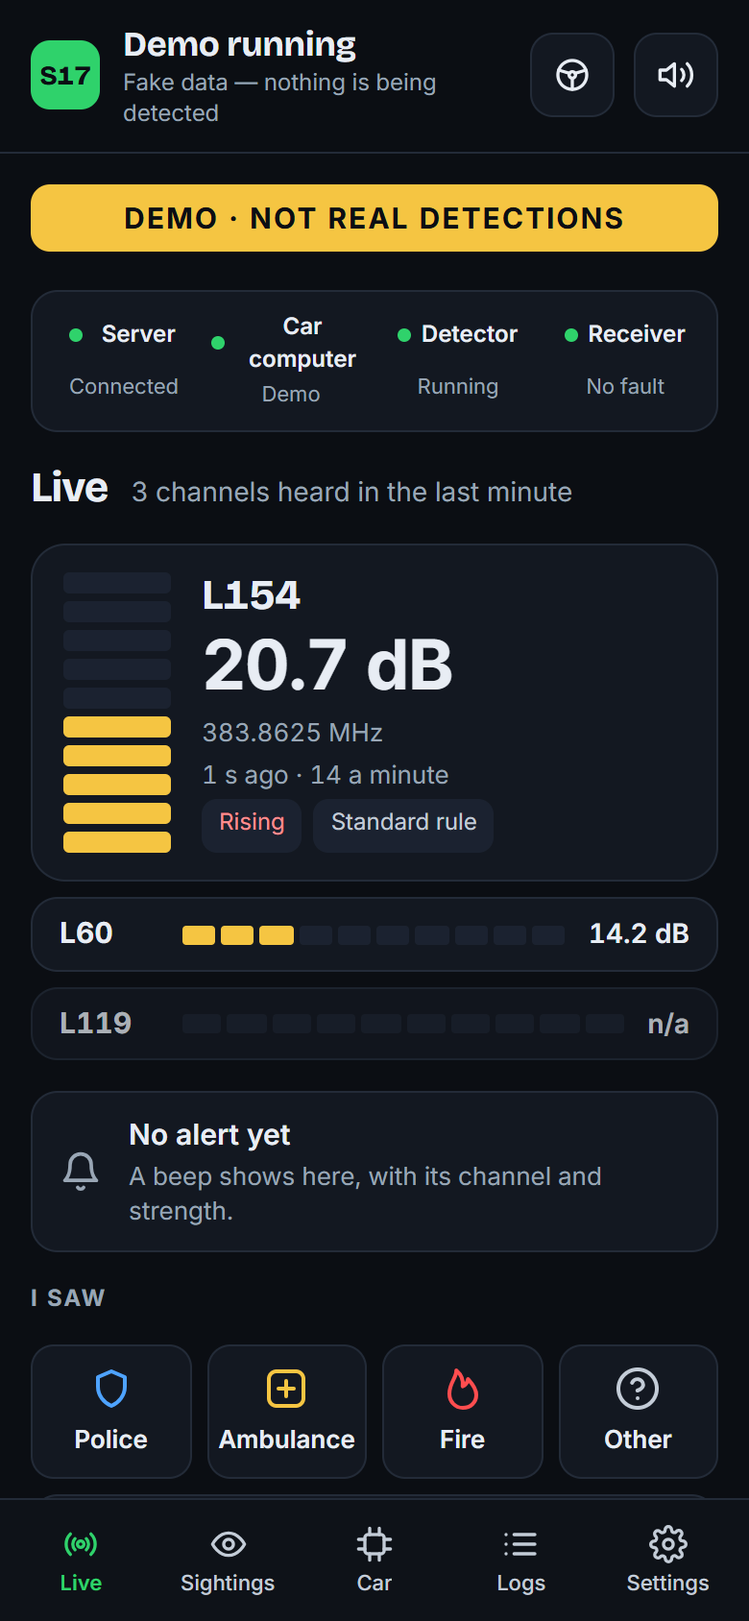
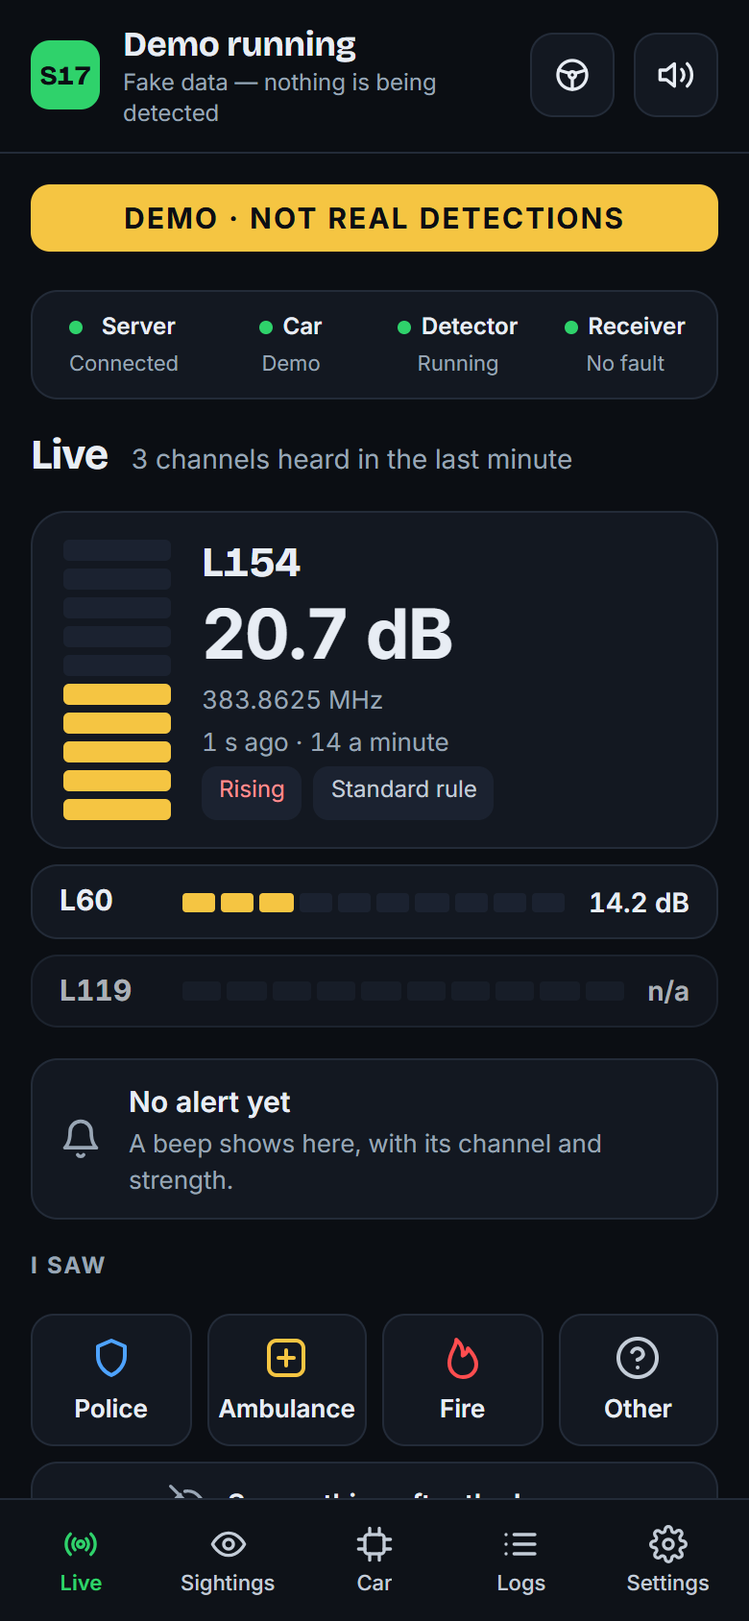
Guides: the Netherlands, Belgium and Germany in daily drives; the receivers described by what they're checked against
- Belgium and Germany join the Netherlands as countries where Slot17 runs in daily drives.
- The receivers of 1.7.0, the Bluetooth link and the apps are described by what they do and how they are checked.
- Range: it depends on the antenna, the car and the land in between, and Slot17 never tells you a distance.

diff --git a/README.md b/README.md
@@ -10,7 +10,7 @@ TETRA is a digital radio standard. In many countries emergency services are amon
 
 It only listens to the TETRA band: it never transmits there, and it never decodes, decrypts or listens to what anyone says. The car computer sends its own results over Wi-Fi, 4G or Bluetooth.
 
-**Status:** it works in daily drives, but how far away it reliably hears a radio has not been measured. See [Limits](#limits).
+**Status:** it runs in daily drives in the Netherlands, Belgium and Germany. How far away it hears a radio depends on the antenna, the car and the land in between, and it never tells you a distance. See [Limits](#limits).
 
 **Questions?** The [FAQ](docs/FAQ.md) answers the common ones: range, false beeps, which receiver, which countries, hosted servers and the apps. For help or ideas, join the [Slot17 Discord](https://discord.gg/rSFPWSWNfh). The website is [slot17.cloud](https://slot17.cloud).
 
@@ -66,11 +66,11 @@ Why a separate server? The car computer sits behind your phone's hotspot, so the
 
 ## Does it work in my country?
 
-Slot17 recognises **TETRA**. It was built and tested in the **Netherlands**, on the C2000 network. Out of the box it listens to **380–385 MHz**, the band where the radios in vehicles and on people transmit.
+Slot17 recognises **TETRA**. It was built in the **Netherlands**, on the C2000 network, and runs in daily drives there and in **Belgium** and **Germany**. Out of the box it listens to **380–385 MHz**, the band where the radios in vehicles and on people transmit.
 
 | Situation | What to expect |
 |---|---|
-| Your emergency services use TETRA in 380–385 MHz | This is the setup Slot17 is built for. In Europe this band is set aside for emergency services, and many countries use it, for example Belgium, Germany, the United Kingdom, the Nordic countries and Austria. Only the Netherlands has been tested |
+| Your emergency services use TETRA in 380–385 MHz | This is the setup Slot17 is built for. In Europe this band is set aside for emergency services, and many countries use it. It runs in daily drives in the Netherlands, Belgium and Germany, and the same band is used in, for example, the United Kingdom, the Nordic countries and Austria |
 | They use TETRAPOL, as in France and Switzerland | Slot17 won't recognise it. TETRAPOL is a different system |
 | They use TETRA on other frequencies, which is common outside Europe | Not supported. The detector's channel grid is built for 380–385 MHz, and choosing another centre frequency doesn't add one. Don't buy hardware for another band |
 | They use other digital radio, such as P25 in the US, DMR, or LTE-based systems | Not supported |
@@ -87,7 +87,7 @@ These are the parts we use. Equivalent parts should work too. **Where to buy the
 | **Storage** | 512 GB NVMe SSD (a fast solid-state drive that fits in the case) | A good microSD card of 128 GB or more works too: since 1.5.1 the recordings are written in batches, so even a slow card keeps up with a busy band, and detection never waits for the storage. Recordings grow with every drive: ours collected about 155 GB in two months. Recording pauses when less than 5 GB is free |
 | **Case** | Argon case with NVMe slot | Any case with cooling. A car gets hot in summer |
 | **Power in the car** | [UGREEN Nexode 60 W car charger, EC602](https://www.amazon.nl/dp/B0DSBSBSGW), Pi on its built-in USB-C cable | It gives 3 A at 5 V. That was enough for our Pi 5 with the Airspy, an NVMe SSD and a 4G stick: no undervoltage during a whole drive (19 November 2026). Bigger car chargers don't help: almost all give 3 A at 5 V, and their extra watts are at 9 to 20 V, which the Pi doesn't use. A car charger that offers the Pi 5's own 5 V 5 A profile is very rare. If `setup.sh doctor` reports undervoltage, your setup draws more: use a 12 V to 5 V converter rated for 5 A with a fused lighter plug or a fused connection, and tell the Pi it can draw 5 A with `sudo rpi-eeprom-config --edit`, adding `PSU_MAX_CURRENT=5000` (only with a supply that really gives 5 A) |
-| **Receiver** | [Airspy Mini](https://itead.cc/product/airspy-mini/) | Its antenna socket is SMA (the common screw-on radio connector). Since 1.7.0 also the SDRplay RSP1B and RSP1A, and a pair of RTL-SDRs, each half of the band on one stick. Their code is tested against the receivers' own header files and stand-ins, but not yet with the hardware; see [RECEIVERS.md](docs/design/RECEIVERS.md) |
+| **Receiver** | [Airspy Mini](https://itead.cc/product/airspy-mini/) | Its antenna socket is SMA (the common screw-on radio connector). Since 1.7.0 also the SDRplay RSP1B and RSP1A, and a pair of RTL-SDRs, each half of the band on one stick. Their code is checked against the receivers' own header files and stand-ins; [RECEIVERS.md](docs/design/RECEIVERS.md) explains each |
 | **Antenna** | [Motorola GMAE4258B](https://www.firecom.nl/merken/motorola/motorola-gmae4258b/), a hidden TETRA antenna for 380–410 MHz, stuck inside the front windscreen | Any antenna made for 380–400 MHz works. **An antenna on the outside of the car, such as a magnetic roof antenna, receives better** than one inside. Some windscreens have a metal coating that blocks radio signals. You may need an adapter to the Airspy's SMA socket |
 | **Internet in the car** | The iPhone's personal hotspot, or a ZTE MF833N 4G USB stick with its own SIM | Any hotspot or car Wi-Fi works and needs nothing extra. A 4G stick spares the phone's battery; ours needs one extra setup command on a Raspberry Pi 5, see [the optional step](#optional-a-4g-stick-instead-of-the-hotspot). A stick that Linux recognises by itself needs no setup at all. **With Bluetooth you can drive without it** (since 1.6.0); what you then miss is in [Bluetooth or the server?](#bluetooth-or-the-server) |
 | **Display server** | A hosted server from us, or your own | Needed with Bluetooth too, for the set-up. Ours: one command in the Discord, nothing to rent; see [step 2](#step-2-set-up-the-display-server). Your own: any Debian or Ubuntu machine with a public address that the car and phone can reach, such as a cheap VPS (a small Linux computer you rent on the internet). A home computer works if you forward a port on your router |
@@ -259,7 +259,6 @@ Besides the display server, the car computer can talk to the app straight over B
 - **In the app:** Settings, **Bluetooth to the car computer**, **Set up**, with the car computer on and nearby. The first time, the app gets the car computer's key through the server, so both need internet once (at home is fine); then the phone shows a list to pick it from. Setting it up again later needs no server. The same card switches Bluetooth on and off on the car computer and renames it (with the phone connected, off and renaming go straight over Bluetooth; on goes through the server), and shows which route brought each match first.
 - **Needs:** car computer software 1.6.0 for everything (1.4.0 sends only the alerts and the detector's state), iPhone app 1.9.0 on iOS 18 or Android app 1.11.0, and a car computer with Bluetooth (every Raspberry Pi from the 3 on has it).
 - **Measured** from a PC to our car computer: found in 0.2 s, connected in 0.9 s, 0 of 161 frames lost, round trip 79 ms. In another room, at −80 to −90 dBm, the PC saw it but could not connect: Bluetooth is for a phone in the car.
-- **Not tested on a phone yet:** the 1.6.0 additions (the Pi screen, the buttons and the Pi log over Bluetooth). Unit tests on the car computer and in both apps check the same frames.
 
 #### Bluetooth or the server?
 
@@ -399,7 +398,7 @@ Environment=SLOT17_CHECK_THREADS=2
 - **A channel recognised in the last minute is checked first**, interference or not.
 - **If the receiver drops samples**, checking goes back to one thread by itself. After five minutes with no further loss the threads come back, once; if samples are lost again after that, it stays on one thread until the detector stops.
 - **Except in the first minute.** Samples lost in the stream's first 60 s (while a 4G stick on the same USB controller starts, in our car) are counted as `startup_dropped`, don't mark the session degraded and leave the threads alone. Set `SLOT17_STARTUP_GRACE_S` to change the 60 s; 0 treats every loss as a fault.
-- **Tested:** a four-core Raspberry Pi 5, where three threads check 2.2 times as much as one. More than four threads, and computers with one or two cores, have not been measured by us.
+- **Measured:** on a four-core Raspberry Pi 5, three threads check 2.2 times as much as one.
 
 ## Troubleshooting
 
@@ -533,11 +532,11 @@ Read [SECURITY.md](SECURITY.md) before relying on this. The main points:
 ## Limits
 
 - **No identity or distance.** See the note at the top.
-- **Range unknown.** How far away it reliably hears a radio hasn't been measured. A proper test needs independent sightings; see [FIELD-TEST.md](docs/operations/FIELD-TEST.md).
+- **Range depends on the antenna, the car and the land in between.** A strong signal can come from far away, and Slot17 never tells you a distance. [FIELD-TEST.md](docs/operations/FIELD-TEST.md) describes how to judge it with independent sightings.
 - **The receiver can hang.** An Airspy can stop responding after being started and stopped many times, and then only unplugging it helps. Slot17 therefore never restarts it automatically.
 - **iOS decides when the app runs.** iOS sometimes pauses the app for 5–36 seconds in the background, and can end it, after which it stays silent until you open it again.
 - **CarPlay shows a Live Activity, not an app.** A CarPlay app needs permission from Apple.
-- **Bluetooth needs iOS 18 on an iPhone**, reaches about as far as the car, and the car computer is visible to Bluetooth scanners nearby under its name whenever Bluetooth is on, also while your phone is connected (it keeps advertising, more slowly, so a second phone can join). If iOS ended the app, it reconnects but beeps again only once the app is opened, as without Bluetooth. The first set-up needs the server. Everything besides the alerts (1.6.0) has not been tested on a phone yet.
+- **Bluetooth needs iOS 18 on an iPhone**, reaches about as far as the car, and the car computer is visible to Bluetooth scanners nearby under its name whenever Bluetooth is on, also while your phone is connected (it keeps advertising, more slowly, so a second phone can join). If iOS ended the app, it reconnects but beeps again only once the app is opened, as without Bluetooth. The first set-up needs the server.
 - **Frequency drift.** A receiver's frequency changes with temperature and age. Ours measured +9.6 and later +4.1 ppm. Detection worked at both settings, but recalibrating now and then does no harm.
 
 ## Repository layout

diff --git a/docs/CHANGELOG.md b/docs/CHANGELOG.md
@@ -69,8 +69,7 @@ page.
 Nothing changes for an Airspy Mini: its code moved into `p0/receiver_airspy.py` without changing a call, and a test
 replays 1.6.0's exact sequence of library calls. On our own car the new receiver layer has run its Airspy Mini since 26
 November: ready within a minute of power-up, and no samples lost in four hours.
-[RECEIVERS.md](design/RECEIVERS.md) describes all three receivers and what is left to check with the hardware,
-which none of the new ones has seen yet.
+[RECEIVERS.md](design/RECEIVERS.md) describes all three receivers and the checks to run with each.
 
 - **The receiver is chosen once**, by `setup.sh car` from the USB IDs (or `--receiver airspy|rsp1b|rsp1a|rtlsdr2`;
   `receiver=` in `slot17.txt` for a prepared card), and kept in `~/.config/slot17-receiver.json`. It is never
@@ -327,7 +326,7 @@ The operator's first drive with 1.5.1, with an iPhone and a car computer that ha
     - The pairing hint says to tap Set up after forgetting Slot17 under iOS Settings.
   - **Old reports are labelled:** "On the car computer" says "As the car computer last reported, … ago" when it is the server's old report.
   - **A saved sighting stays saved,** even when the server's copy expires later.
-- **Not tested on a phone yet.** A test from a Windows PC failed at −80 dBm: Windows could not read the services, the car computer being further away than on 22 November. The link was tested with unit tests on all three sides, the car computer and both apps, against the same shared fixture.
+- The link is tested with unit tests on all three sides, the car computer and both apps, against the same shared fixture.
 - **Tests:**
   - Detector: 235 (10 new: pieces, files, operations, the link).
   - Publisher and server: 9 new.
@@ -341,7 +340,6 @@ Two problems from the field, one from the operator's iPhone and one from a user'
 - **Bluetooth asked to pair at every connection.** On the operator's iPhone a pairing code came up at every connection and after every restart of the app; without confirming it the app had no data from Bluetooth, and setting up said "Application is not in the foreground".
   - **Cause, on the car computer:** BlueZ acts as a GATT client towards a phone that connects. It found the iPhone's own services: Device Information and iOS 18's LE Audio media and call control, cached in `/var/lib/bluetooth`. They are protected, so BlueZ raised the link's security and the phone asked to pair. With no agent on the car computer the pairing was never kept (`bluetoothctl devices Paired` was empty).
   - **Fix:** the setup writes `[GATT] Client = false` into `/etc/bluetooth/main.conf`, with a dated copy, and restarts Bluetooth: Slot17 needs BlueZ only as a server. Signed updates cannot change system files, so the doctor and the app's Bluetooth card say when the setup is still needed. Applied on our car computer on 23 November.
-  - **Not tested before 1.4.0:** the earlier tests used a PC, which exposes none of these services. That was the wrong test for a phone feature.
   - **The apps:**
     - The iPhone picker waits until the app is on screen instead of failing.
     - "Set up again" with a car computer already chosen only refreshes the key.
@@ -423,7 +421,6 @@ Alerts and the detector's state now also go straight from the car computer to th
   - Setup: 4 new in `scripts/test_doctor.py`, 2 in `scripts/test_bluetooth_parity.py`.
   - Android core: 11 new, run here with the real Kotlin compiler.
   - iPhone: 11 new, run in the cloud build.
-  - The Android and iPhone apps themselves are compiled only in the cloud build; not yet tried on a phone.
 
 ## Unreleased: where to buy, and the car charger advice (19 November 2026)
 
@@ -436,7 +433,7 @@ Documents and website only; the software is unchanged.
 
 The detector's recognition is unchanged. This release is about getting started without knowing Linux.
 
-- **A ready-made image for the Raspberry Pi** (`slot17-VERSION-raspios-lite-arm64.img.xz` on each release, built by `.github/workflows/image.yml`): Raspberry Pi OS Lite (64-bit, checked against its published SHA-256) with Slot17's packages and this release on it, SSH on. On the first start `slot17-firstboot.service` waits for the user Raspberry Pi Imager creates, reads `slot17.txt` from the boot partition (server address, car computer key, hotspot; Windows line endings and the like are fine), runs the normal installer with the release already on the card, then removes the key and the hotspot password from the card and stops running. Everything it prints also goes to `slot17-setup.log` on the card. Before the image is packed, Slot17's own offline checks run inside it under ARM emulation. *Not yet tried on a real Pi.*
+- **A ready-made image for the Raspberry Pi** (`slot17-VERSION-raspios-lite-arm64.img.xz` on each release, built by `.github/workflows/image.yml`): Raspberry Pi OS Lite (64-bit, checked against its published SHA-256) with Slot17's packages and this release on it, SSH on. On the first start `slot17-firstboot.service` waits for the user Raspberry Pi Imager creates, reads `slot17.txt` from the boot partition (server address, car computer key, hotspot; Windows line endings and the like are fine), runs the normal installer with the release already on the card, then removes the key and the hotspot password from the card and stops running. Everything it prints also goes to `slot17-setup.log` on the card. Before the image is packed, Slot17's own offline checks run inside it under ARM emulation.
 - **The phone's hotspot in the setup.** `setup.sh car` asks for it and saves it as a NetworkManager Wi-Fi network (`deploy/hotspot.sh`): the password comes on standard input, never on a command line, into a file only root can read. `--hotspot NAME`, with the password from `SLOT17_HOTSPOT_PASSWORD`, for scripted installs. 4 tests.
 - **Updates by themselves for everyone.** Each release now carries a car computer update signed with the Slot17 team's key (`audit/publish_release.py --public`, on the team's computer; without the field recordings). Servers set up from now on copy it from GitHub into their `release/` folder (`relay_update`: only that release's own assets, size and SHA-256 checked, swapped in whole; the server holds no key), hosted servers get it directly, and `setup.sh car` offers to trust the team's public key (`deploy/slot17-release-key.pub`, on by default; `--no-updates`). The car computer installs only what that key signed, after testing it. The setup now installs `python3-cryptography`, which checking the signature needs. 5 server tests.
 - **One line for the car computer from Discord.** `/server create` shows the whole car computer setup as one line to paste, with the address and key filled in.
@@ -448,7 +445,7 @@ The detector's recognition is unchanged. This release is about getting started w
 
 - **Urgent beeps on the Android Auto screen.** Android Auto has no place for a status like CarPlay's Live Activity: an app with its own car screen (Android for Cars App Library) must come from Google Play, and Android Auto's "unknown sources" option does not cover such apps (developer.android.com/training/cars/testing). It does cover messaging notifications, so an urgent beep is now a message from "Slot17" (MessagingStyle, `developer.android.com/training/cars/messaging`) that Android Auto shows and reads out: "Strong burst on L154, 55 dB". At most one every 30 s, and only while Android Auto is connected (the state `androidx.car.app`'s CarConnection reads), so the phone itself never gets them. Chimes stay sound only.
 - **Mark what you saw by voice.** Android Auto requires a reply action on messages; a reply here is a sighting: police, ambulance, fire, nothing or other, in English, Dutch or German, whole words only. The app answers "Marked: Police", or that it didn't understand. The reply's words are not logged.
-- On by default; **Settings > Android Auto** switches it off. Needs "Unknown sources" in Android Auto's developer settings, since the app isn't from Google Play. *Not yet tried in a car:* built and unit-tested on Codemagic only.
+- On by default; **Settings > Android Auto** switches it off. Needs "Unknown sources" in Android Auto's developer settings, since the app isn't from Google Play.
 
 ## 1.3.0 and Android app 1.7.0 (19 November 2026)
 

diff --git a/docs/FAQ.md b/docs/FAQ.md
@@ -46,10 +46,10 @@ No. It never decodes, decrypts or transmits anything. It only checks whether a b
 ## Hardware
 
 ### Which receiver do I need? Can I use an RTL-SDR?
-The Airspy Mini is the one we drive with and have tested in the car: it takes in the whole 5 MHz band at once, all 200 channels. Since 1.7.0 the software also works with an SDRplay RSP1B or RSP1A, or with a pair of RTL-SDR sticks (one stick alone only covers about half the band reliably, so it takes two). Those have passed our software tests but haven't been tried with the real hardware yet, so read [RECEIVERS.md](https://github.com/efeorman/Slot17/blob/main/docs/design/RECEIVERS.md) before you buy one. Other receivers aren't supported.
+The Airspy Mini is the one we drive with: it takes in the whole 5 MHz band at once, all 200 channels. Since 1.7.0 the software also works with an SDRplay RSP1B or RSP1A, or with a pair of RTL-SDR sticks (one stick alone only covers about half the band reliably, so it takes two). [RECEIVERS.md](https://github.com/efeorman/Slot17/blob/main/docs/design/RECEIVERS.md) explains each before you buy one. Other receivers aren't supported.
 
 ### Which computer?
-A Raspberry Pi 5. We use the 8 GB one; 2 GB and up should be fine, the detector uses about 0.6 GB. Only the Pi 5 has been tested; slower computers may not keep up.
+A Raspberry Pi 5. We use the 8 GB one; 2 GB and up should be fine, the detector uses about 0.6 GB. We use the Pi 5; slower computers may not keep up.
 
 ### Antenna inside or outside the car: is there a big difference?
 Yes. An antenna on the outside, like a magnetic roof antenna, hears more than one behind the windscreen, and some windscreens have a metal coating that blocks radio. Keep in mind that more range also means more beeps for radios you can't see. We use a Motorola GMAE4258B stuck inside the windscreen. Anything made for 380 to 400 MHz works.
@@ -66,8 +66,9 @@ It just loses power, and that's fine. It starts again by itself the next time th
 ## Countries and the law
 
 ### Will it work in my country?
-It's built for TETRA in 380 to 385 MHz, the band most of Europe uses for emergency services. Only the Netherlands is tested so far.
-- **Should work:** Belgium, Germany, the United Kingdom, Austria and the Nordic countries.
+It's built for TETRA in 380 to 385 MHz, the band most of Europe uses for emergency services.
+- **In daily drives:** the Netherlands, Belgium and Germany.
+- **Should work:** the United Kingdom, Austria and the Nordic countries.
 - **Won't work:** France and Switzerland (TETRAPOL, a different system), and the US and Canada, where public safety mostly uses P25.
 - **Elsewhere, including eastern Europe:** check which system your emergency services use and on which band. If it's TETRA in 380 to 385 MHz, it should work. Tell us how it goes in the Discord.
 

diff --git a/ios/README.md b/ios/README.md
@@ -34,7 +34,7 @@ Open the app once before driving, then lock the phone. iOS won't let an app star
 
 **Bluetooth to the car computer (1.7.0, iOS 18).** Settings, Bluetooth to the car computer: Set up gets the car computer's key through the server and shows iOS's accessory picker (AccessorySetupKit), so there is no Bluetooth permission prompt. Alerts then also come straight from the car computer, and a match that comes both ways plays once. See [BLUETOOTH.md](../docs/design/BLUETOOTH.md).
 
-**Everything over Bluetooth (1.9.0, car computer 1.6.0).** The whole state comes over Bluetooth too: the Pi screen, its health and its setup check. Sightings, stop, power off, the Pushover switch, the setup check, the Pi log and the request for a support package go over it first, and through the server when there is no answer within 8 s. The lights and the link warning follow Bluetooth when the server has nothing fresh, so the app works where neither the phone nor the car computer has internet. Set up again needs no server once the phone has the key. Not tested on a phone yet.
+**Everything over Bluetooth (1.9.0, car computer 1.6.0).** The whole state comes over Bluetooth too: the Pi screen, its health and its setup check. Sightings, stop, power off, the Pushover switch, the setup check, the Pi log and the request for a support package go over it first, and through the server when there is no answer within 8 s. The lights and the link warning follow Bluetooth when the server has nothing fresh, so the app works where neither the phone nor the car computer has internet. Set up again needs no server once the phone has the key.
 
 ## Limits
 

diff --git a/docs/design/APP-OVERVIEW.md b/docs/design/APP-OVERVIEW.md
@@ -114,7 +114,6 @@ Sound, link and location start only when the person opens the app. If iOS starts
 
 - **Wrong claims made along the way:** that the meters used only yellow and red; that Codemagic has no audio (never proven, and the docs do not say); a first explanation of overload that blamed the display.
 - **Cloud minutes:** GitHub Actions allowance used up by long and repeated runs.
-- **Not tested on a real phone:** the widget in any form, the 1.4.1 closing behaviour, and whether a swipe-up announces itself to the app.
 - **Test limits:** Codemagic's tests skip real sound and WAV decoding. Debug switches stand in for background launches and swipes, so they test the app's reaction and not iOS's behaviour. The widget test runs its button inside the app, not through the widget extension.
 - **Evidence limits:** few independent sightings, and marks are prompted by beeps, so usefulness is unmeasured.
 - **Unexplained:** the mid-drive restart at 14:25 on 8 November, and the one tile photo that was behind.

diff --git a/docs/design/BLUETOOTH.md b/docs/design/BLUETOOTH.md
@@ -34,7 +34,7 @@ The real code, before release, on the same car computer:
 - **Detector:** the drop counter stayed at its start-up value throughout.
 
 Phones came next: the operator's iPhone with 1.4.0 and 1.5.0, which found the pairing prompts fixed in 1.5.1
-(below). The 1.6.0 additions have not been tested on a phone yet.
+(below).
 
 ## The parts
 
@@ -247,7 +247,7 @@ Bluetooth and to the server. `systemctl stop` still ends both.
 - **Setting up again** with the key on the phone needs no server: on the iPhone the picker, on Android the chooser.
 - **iPhone:** a removed accessory's connection is cancelled, and a connection without an accessory is dropped.
 
-**Not tested on a phone yet.** A test from a Windows PC failed at −80 dBm; the unit tests on all three sides check
+The unit tests on all three sides check
 the same frames in `shared/parity/ble-frames.json`.
 
 ## Sources

diff --git a/docs/design/RECEIVERS.md b/docs/design/RECEIVERS.md
@@ -3,8 +3,8 @@
 **State, 26 November 2026: released in 1.7.0.** The Airspy Mini is the receiver Slot17 has been driven with; through
 this receiver layer since 26 November. Support for the SDRplay RSP1B (and RSP1A) and for a pair of RTL-SDRs is tested
 against the receivers' own header files, their real libraries where that was possible without installing them,
-and stand-ins that behave like the hardware. **None of the three has been tried with the hardware itself yet.**
-The checks still to do with it are listed under [With the hardware](#with-the-hardware).
+and stand-ins that behave like the hardware. The checks to run with each receiver are listed under
+[With the hardware](#with-the-hardware).
 
 ## Which receiver, and why it is never guessed
 

diff --git a/docs/operations/MOBILE-MODEM.md b/docs/operations/MOBILE-MODEM.md
@@ -188,7 +188,7 @@ connection over many drives.
   frequencies a few centimetres from the SDR. Put it on a short USB extension
   lead away from the SDR and its antenna, and compare the interference figure in
   the app with and without it. At home it measurably reaches the receiver (see
-  above); on a drive the effect of a lead has not been measured yet.
+  above).
 - **Use a USB port on the other controller.** A Pi 5 has two USB controllers,
   each serving two sockets. `lsusb -t` shows which bus each device is on: the
   Airspy and the stick should be under different `Bus` lines. With both on the

diff --git a/android/README.md b/android/README.md
@@ -46,4 +46,3 @@ and the Settings card. Not yet: starting the app when the car computer appears.
 silent. 1.11.0 (car computer 1.6.0): everything over Bluetooth, so the app works where neither the phone nor the
 car computer has internet: the whole state, the Pi screen's actions and the Pi log; an action with no answer over
 Bluetooth within 8 s also goes through the server, and setting up again needs no server once the phone has the key.
-Not tested on a phone yet.
